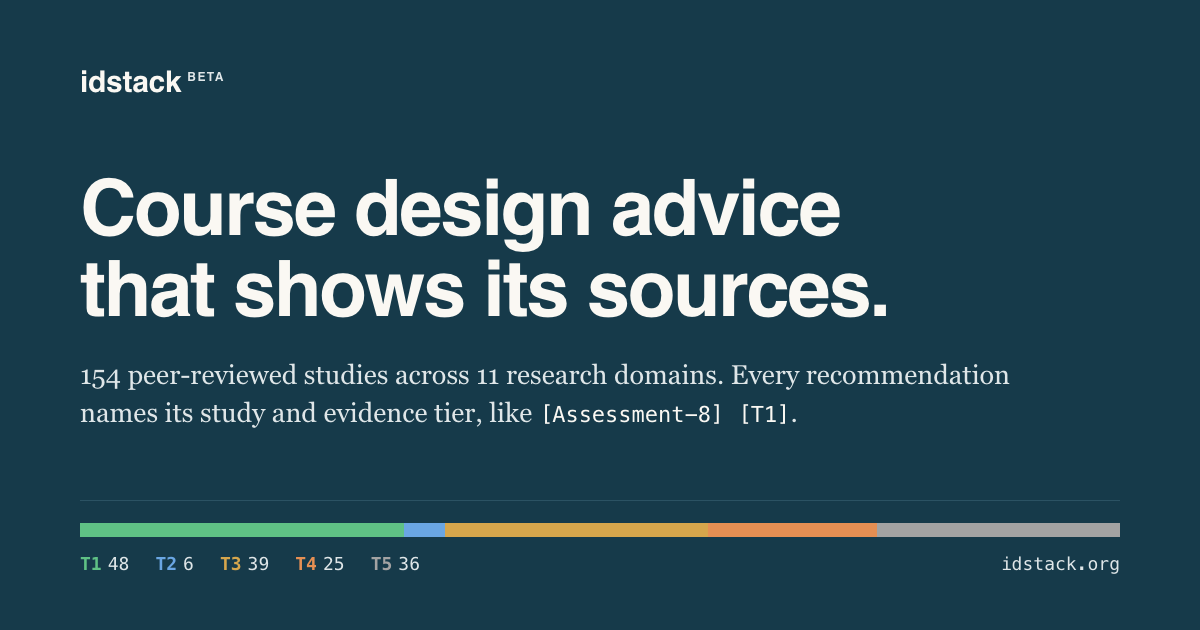
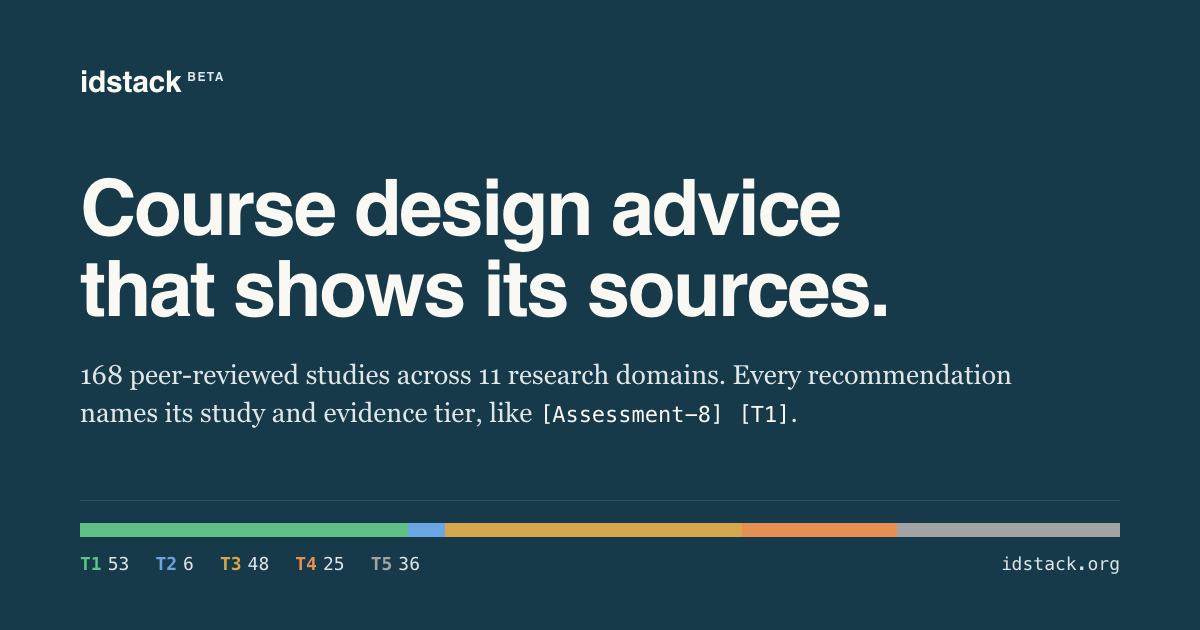
feat: 14 new references from a Consensus search of all 11 domains
The evidence base goes from 154 to 168 studies. Five meta-analyses (T1)
and nine systematic or scoping reviews (T3), all from 2025 and 2026.
The landing page rows, the OG card, the README table and DESIGN.md
follow the new counts. Mutation case 18b gets the new anchor.

diff --git a/docs/index.html b/docs/index.html
@@ -4,7 +4,7 @@
   <meta charset="UTF-8">
   <meta name="viewport" content="width=device-width, initial-scale=1.0, viewport-fit=cover">
   <title>idstack: Evidence-based instructional design with peer-reviewed citations</title>
-  <meta name="description" content="Open-source skills for evidence-based instructional design. 154 peer-reviewed studies across 11 research domains. Every recommendation cites its evidence tier, T1 (meta-analyses, RCTs) through T5 (expert opinion). Runs in Claude Code, Cowork and Chrome.">
+  <meta name="description" content="Open-source skills for evidence-based instructional design. 168 peer-reviewed studies across 11 research domains. Every recommendation cites its evidence tier, T1 (meta-analyses, RCTs) through T5 (expert opinion). Runs in Claude Code, Cowork and Chrome.">
   <meta name="keywords" content="instructional design, evidence-based, course design, Quality Matters, Bloom's taxonomy, cognitive load, learning objectives, WCAG, UDL, open source, Claude Code">
   <meta name="robots" content="index, follow">
   <link rel="canonical" href="https://idstack.org/">
@@ -20,7 +20,7 @@
 
   <!-- Open Graph -->
   <meta property="og:title" content="idstack: Evidence-based instructional design with peer-reviewed citations">
-  <meta property="og:description" content="154 peer-reviewed studies across 11 research domains. Every recommendation cites its evidence tier. Open source, MIT-licensed. Runs in Claude Code, Cowork and Chrome.">
+  <meta property="og:description" content="168 peer-reviewed studies across 11 research domains. Every recommendation cites its evidence tier. Open source, MIT-licensed. Runs in Claude Code, Cowork and Chrome.">
   <meta property="og:type" content="website">
   <meta property="og:url" content="https://idstack.org/">
   <meta property="og:site_name" content="idstack">
@@ -33,7 +33,7 @@
   <!-- Twitter Card -->
   <meta name="twitter:card" content="summary_large_image">
   <meta name="twitter:title" content="idstack: Evidence-based instructional design with peer-reviewed citations">
-  <meta name="twitter:description" content="154 peer-reviewed studies, 11 research domains, evidence tiers on every recommendation. Open source. Runs in Claude Code, Cowork and Chrome.">
+  <meta name="twitter:description" content="168 peer-reviewed studies, 11 research domains, evidence tiers on every recommendation. Open source. Runs in Claude Code, Cowork and Chrome.">
   <meta name="twitter:image" content="https://idstack.org/og-image.png">
   <meta name="twitter:image:alt" content="idstack: Evidence-based instructional design with peer-reviewed citations.">
 
@@ -1223,7 +1223,7 @@
     <section class="hero" aria-labelledby="hero-title">
       <div class="hero-text">
         <h1 id="hero-title">Course design advice that shows its sources.</h1>
-        <p class="lede">idstack reviews your course in Claude Code, Cowork or Chrome. Each recommendation names the study behind it and how strong that evidence is, from <span class="tier tier-1">T1</span> meta-analyses and RCTs to <span class="tier tier-5">T5</span> expert opinion. 154 peer-reviewed studies across 11 research domains. The skills follow the framework that you already use: ADDIE, backward design or SAM.</p>
+        <p class="lede">idstack reviews your course in Claude Code, Cowork or Chrome. Each recommendation names the study behind it and how strong that evidence is, from <span class="tier tier-1">T1</span> meta-analyses and RCTs to <span class="tier tier-5">T5</span> expert opinion. 168 peer-reviewed studies across 11 research domains. The skills follow the framework that you already use: ADDIE, backward design or SAM.</p>
 
         <div class="cta-row">
           <div class="cta-actions">
@@ -1245,7 +1245,7 @@
             <code id="install-cmd">git clone https://github.com/savvides/idstack.git &amp;&amp; cd idstack &amp;&amp; ./setup</code>
             <button class="copy-btn" type="button" data-copy-target="install-cmd" aria-label="Copy install command">Copy</button>
           </div>
-          <a class="cta-secondary" href="#evidence">→&nbsp; See the 154 studies</a>
+          <a class="cta-secondary" href="#evidence">→&nbsp; See the 168 studies</a>
           <a class="cta-secondary" href="#pipeline">→&nbsp; Find your ADDIE or backward design phase</a>
         </div>
 
@@ -1425,7 +1425,7 @@
     <section class="section" id="evidence" aria-labelledby="evidence-title">
       <header class="section-header">
         <h2 id="evidence-title">Every recommendation cites its source.</h2>
-        <p class="lede">The 11 research domains below are ranked by study count. Each bar shows the tier mix of that domain's references. You can see where idstack rests on trials and where it rests on reviews or expert opinion. When findings conflict, the stronger tier wins. All 154 references are in <a href="https://github.com/savvides/idstack/blob/main/evidence/references.md" rel="noopener"><code>evidence/references.md</code></a>. Every source is public, and you can check every citation.</p>
+        <p class="lede">The 11 research domains below are ranked by study count. Each bar shows the tier mix of that domain's references. You can see where idstack rests on trials and where it rests on reviews or expert opinion. When findings conflict, the stronger tier wins. All 168 references are in <a href="https://github.com/savvides/idstack/blob/main/evidence/references.md" rel="noopener"><code>evidence/references.md</code></a>. Every source is public, and you can check every citation.</p>
       </header>
 
       <div class="evidence-legend" role="note" aria-label="Evidence tier legend">
@@ -1438,69 +1438,69 @@
 
       <ol class="evidence-index" aria-label="Research domains, ranked by study count">
         <li class="evidence-row">
-          <h3 class="evidence-row-title">Cognitive Load Theory &amp; Instructional Sequencing</h3>
-          <span class="evidence-row-count">19 studies</span>
-          <span class="tier-mix" role="img" aria-label="Tier mix: 6 at T1, 2 at T2, 1 at T4, 10 at T5" data-tiers="6,2,0,1,10" style="width:100%"><span class="t1" style="width:31.58%"></span><span class="t2" style="width:10.53%"></span><span class="t4" style="width:5.26%"></span><span class="t5" style="width:52.63%"></span></span>
-          <p class="evidence-row-body">Working memory holds only a few new ideas at one time. Cognitive load research shows when a visual cue helps, and when a repeated explanation overloads the learner. <span class="evidence-row-tiers">T1–T5</span></p>
-        </li>
-        <li class="evidence-row">
           <h3 class="evidence-row-title">Formative Assessment &amp; Feedback</h3>
-          <span class="evidence-row-count">19 studies</span>
-          <span class="tier-mix" role="img" aria-label="Tier mix: 14 at T1, 1 at T2, 1 at T3, 1 at T4, 2 at T5" data-tiers="14,1,1,1,2" style="width:100%"><span class="t1" style="width:73.68%"></span><span class="t2" style="width:5.26%"></span><span class="t3" style="width:5.26%"></span><span class="t4" style="width:5.26%"></span><span class="t5" style="width:10.53%"></span></span>
+          <span class="evidence-row-count">21 studies</span>
+          <span class="tier-mix" role="img" aria-label="Tier mix: 15 at T1, 1 at T2, 2 at T3, 1 at T4, 2 at T5" data-tiers="15,1,2,1,2" style="width:100%"><span class="t1" style="width:71.43%"></span><span class="t2" style="width:4.76%"></span><span class="t3" style="width:9.52%"></span><span class="t4" style="width:4.76%"></span><span class="t5" style="width:9.52%"></span></span>
           <p class="evidence-row-body">Feedback that explains the error and the next step improves retention. Feedback that only marks an answer right or wrong does less. Nicol's principles give criteria for rubrics, self-assessment and peer review. <span class="evidence-row-tiers">T1–T5</span></p>
         </li>
         <li class="evidence-row">
+          <h3 class="evidence-row-title">Cognitive Load Theory &amp; Instructional Sequencing</h3>
+          <span class="evidence-row-count">19 studies</span>
+          <span class="tier-mix" role="img" aria-label="Tier mix: 6 at T1, 2 at T2, 1 at T4, 10 at T5" data-tiers="6,2,0,1,10" style="width:90.48%"><span class="t1" style="width:31.58%"></span><span class="t2" style="width:10.53%"></span><span class="t4" style="width:5.26%"></span><span class="t5" style="width:52.63%"></span></span>
+          <p class="evidence-row-body">Working memory holds only a few new ideas at one time. Cognitive load research shows when a visual cue helps, and when a repeated explanation overloads the learner. <span class="evidence-row-tiers">T1–T5</span></p>
+        </li>
+        <li class="evidence-row">
           <h3 class="evidence-row-title">Instructional Design Models &amp; Frameworks</h3>
-          <span class="evidence-row-count">15 studies</span>
-          <span class="tier-mix" role="img" aria-label="Tier mix: 3 at T1, 11 at T3, 1 at T5" data-tiers="3,0,11,0,1" style="width:78.95%"><span class="t1" style="width:20%"></span><span class="t3" style="width:73.33%"></span><span class="t5" style="width:6.67%"></span></span>
+          <span class="evidence-row-count">17 studies</span>
+          <span class="tier-mix" role="img" aria-label="Tier mix: 3 at T1, 13 at T3, 1 at T5" data-tiers="3,0,13,0,1" style="width:80.95%"><span class="t1" style="width:17.65%"></span><span class="t3" style="width:76.47%"></span><span class="t5" style="width:5.88%"></span></span>
           <p class="evidence-row-body">ADDIE, ARCS, ASSURE and UDL fit different contexts. A 2025 review <span class="cite-pill">[ID-7] [T3]</span> compares the strengths and limits of ADDIE, ARCS, and ASSURE. It proposes a framework that combines them. <span class="evidence-row-tiers">T1–T5</span></p>
         </li>
         <li class="evidence-row">
           <h3 class="evidence-row-title">Evaluation Models</h3>
-          <span class="evidence-row-count">15 studies</span>
-          <span class="tier-mix" role="img" aria-label="Tier mix: 4 at T1, 4 at T3, 1 at T4, 6 at T5" data-tiers="4,0,4,1,6" style="width:78.95%"><span class="t1" style="width:26.67%"></span><span class="t3" style="width:26.67%"></span><span class="t4" style="width:6.67%"></span><span class="t5" style="width:40%"></span></span>
+          <span class="evidence-row-count">16 studies</span>
+          <span class="tier-mix" role="img" aria-label="Tier mix: 4 at T1, 5 at T3, 1 at T4, 6 at T5" data-tiers="4,0,5,1,6" style="width:76.19%"><span class="t1" style="width:25%"></span><span class="t3" style="width:31.25%"></span><span class="t4" style="width:6.25%"></span><span class="t5" style="width:37.5%"></span></span>
           <p class="evidence-row-body">Plan the evaluation while you design the course, not after it. Kirkpatrick's four levels measure reaction, learning, behavior and results. Satisfaction alone does not show learning. <span class="evidence-row-tiers">T1–T5</span></p>
         </li>
         <li class="evidence-row">
           <h3 class="evidence-row-title">Multimedia Learning Principles</h3>
-          <span class="evidence-row-count">14 studies</span>
-          <span class="tier-mix" role="img" aria-label="Tier mix: 7 at T1, 2 at T2, 2 at T3, 1 at T4, 2 at T5" data-tiers="7,2,2,1,2" style="width:73.68%"><span class="t1" style="width:50%"></span><span class="t2" style="width:14.29%"></span><span class="t3" style="width:14.29%"></span><span class="t4" style="width:7.14%"></span><span class="t5" style="width:14.29%"></span></span>
+          <span class="evidence-row-count">16 studies</span>
+          <span class="tier-mix" role="img" aria-label="Tier mix: 9 at T1, 2 at T2, 2 at T3, 1 at T4, 2 at T5" data-tiers="9,2,2,1,2" style="width:76.19%"><span class="t1" style="width:56.25%"></span><span class="t2" style="width:12.5%"></span><span class="t3" style="width:12.5%"></span><span class="t4" style="width:6.25%"></span><span class="t5" style="width:12.5%"></span></span>
           <p class="evidence-row-body">Mayer's principles (coherence, signaling, segmenting, modality, redundancy) tell how to combine words and pictures. Text or decoration that does not teach adds load and reduces learning. <span class="evidence-row-tiers">T1–T5</span></p>
         </li>
         <li class="evidence-row">
           <h3 class="evidence-row-title">Online Course Quality Frameworks</h3>
-          <span class="evidence-row-count">14 studies</span>
-          <span class="tier-mix" role="img" aria-label="Tier mix: 3 at T1, 2 at T3, 8 at T4, 1 at T5" data-tiers="3,0,2,8,1" style="width:73.68%"><span class="t1" style="width:21.43%"></span><span class="t3" style="width:14.29%"></span><span class="t4" style="width:57.14%"></span><span class="t5" style="width:7.14%"></span></span>
+          <span class="evidence-row-count">16 studies</span>
+          <span class="tier-mix" role="img" aria-label="Tier mix: 4 at T1, 3 at T3, 8 at T4, 1 at T5" data-tiers="4,0,3,8,1" style="width:76.19%"><span class="t1" style="width:25%"></span><span class="t3" style="width:18.75%"></span><span class="t4" style="width:50%"></span><span class="t5" style="width:6.25%"></span></span>
           <p class="evidence-row-body">Quality Matters (QM) standards and the Community of Inquiry (CoI) model are the most studied frameworks for online course quality. CoI measures teaching, social and cognitive presence. idstack audits against both. <span class="evidence-row-tiers">T1–T5</span></p>
+        </li>
+        <li class="evidence-row">
+          <h3 class="evidence-row-title">Accessibility &amp; Universal Design for Learning</h3>
+          <span class="evidence-row-count">15 studies</span>
+          <span class="tier-mix" role="img" aria-label="Tier mix: 2 at T1, 8 at T3, 1 at T4, 4 at T5" data-tiers="2,0,8,1,4" style="width:71.43%"><span class="t1" style="width:13.33%"></span><span class="t3" style="width:53.33%"></span><span class="t4" style="width:6.67%"></span><span class="t5" style="width:26.67%"></span></span>
+          <p class="evidence-row-body">WCAG 2.1 AA is the legal baseline for digital accessibility. Universal Design for Learning (UDL 3.0) plans three pathways (engagement, representation, and action) from the start, so that more learners can succeed. <span class="evidence-row-tiers">T1–T5</span></p>
         </li>
         <li class="evidence-row">
           <h3 class="evidence-row-title">Constructive Alignment &amp; Learning Objectives</h3>
           <span class="evidence-row-count">13 studies</span>
-          <span class="tier-mix" role="img" aria-label="Tier mix: 2 at T1, 1 at T3, 6 at T4, 4 at T5" data-tiers="2,0,1,6,4" style="width:68.42%"><span class="t1" style="width:15.38%"></span><span class="t3" style="width:7.69%"></span><span class="t4" style="width:46.15%"></span><span class="t5" style="width:30.77%"></span></span>
+          <span class="tier-mix" role="img" aria-label="Tier mix: 2 at T1, 1 at T3, 6 at T4, 4 at T5" data-tiers="2,0,1,6,4" style="width:61.9%"><span class="t1" style="width:15.38%"></span><span class="t3" style="width:7.69%"></span><span class="t4" style="width:46.15%"></span><span class="t5" style="width:30.77%"></span></span>
           <p class="evidence-row-body">When objectives, activities and assessments do not agree, students learn less. The revised Bloom's taxonomy classifies each objective, so that the assessment can measure the same level. <span class="evidence-row-tiers">T1–T5</span></p>
         </li>
         <li class="evidence-row">
-          <h3 class="evidence-row-title">Accessibility &amp; Universal Design for Learning</h3>
-          <span class="evidence-row-count">13 studies</span>
-          <span class="tier-mix" role="img" aria-label="Tier mix: 2 at T1, 6 at T3, 1 at T4, 4 at T5" data-tiers="2,0,6,1,4" style="width:68.42%"><span class="t1" style="width:15.38%"></span><span class="t3" style="width:46.15%"></span><span class="t4" style="width:7.69%"></span><span class="t5" style="width:30.77%"></span></span>
-          <p class="evidence-row-body">WCAG 2.1 AA is the legal baseline for digital accessibility. Universal Design for Learning (UDL 3.0) plans three pathways (engagement, representation, and action) from the start, so that more learners can succeed. <span class="evidence-row-tiers">T1–T5</span></p>
-        </li>
-        <li class="evidence-row">
           <h3 class="evidence-row-title">Learner Analysis &amp; Differentiation</h3>
-          <span class="evidence-row-count">11 studies</span>
-          <span class="tier-mix" role="img" aria-label="Tier mix: 5 at T1, 4 at T4, 2 at T5" data-tiers="5,0,0,4,2" style="width:57.89%"><span class="t1" style="width:45.45%"></span><span class="t4" style="width:36.36%"></span><span class="t5" style="width:18.18%"></span></span>
+          <span class="evidence-row-count">12 studies</span>
+          <span class="tier-mix" role="img" aria-label="Tier mix: 6 at T1, 4 at T4, 2 at T5" data-tiers="6,0,0,4,2" style="width:57.14%"><span class="t1" style="width:50%"></span><span class="t4" style="width:33.33%"></span><span class="t5" style="width:16.67%"></span></span>
           <p class="evidence-row-body">Prior knowledge is the strongest predictor of what a learner gains from instruction. Novices need support that slows experienced learners. This is the expertise-reversal effect. <span class="evidence-row-tiers">T1–T5</span></p>
         </li>
         <li class="evidence-row">
           <h3 class="evidence-row-title">Needs Analysis</h3>
-          <span class="evidence-row-count">11 studies</span>
-          <span class="tier-mix" role="img" aria-label="Tier mix: 2 at T1, 9 at T3" data-tiers="2,0,9,0,0" style="width:57.89%"><span class="t1" style="width:18.18%"></span><span class="t3" style="width:81.82%"></span></span>
+          <span class="evidence-row-count">12 studies</span>
+          <span class="tier-mix" role="img" aria-label="Tier mix: 2 at T1, 10 at T3" data-tiers="2,0,10,0,0" style="width:57.14%"><span class="t1" style="width:16.67%"></span><span class="t3" style="width:83.33%"></span></span>
           <p class="evidence-row-body">A needs analysis examines three levels (organization, task and learner) before anyone writes content. It keeps the course on the skill gap, and it shows when training is not the answer. <span class="evidence-row-tiers">T1–T3</span></p>
         </li>
         <li class="evidence-row">
           <h3 class="evidence-row-title">Rapid Prototyping &amp; Design-Based Research</h3>
-          <span class="evidence-row-count">10 studies</span>
-          <span class="tier-mix" role="img" aria-label="Tier mix: 1 at T2, 3 at T3, 2 at T4, 4 at T5" data-tiers="0,1,3,2,4" style="width:52.63%"><span class="t2" style="width:10%"></span><span class="t3" style="width:30%"></span><span class="t4" style="width:20%"></span><span class="t5" style="width:40%"></span></span>
+          <span class="evidence-row-count">11 studies</span>
+          <span class="tier-mix" role="img" aria-label="Tier mix: 1 at T2, 4 at T3, 2 at T4, 4 at T5" data-tiers="0,1,4,2,4" style="width:52.38%"><span class="t2" style="width:9.09%"></span><span class="t3" style="width:36.36%"></span><span class="t4" style="width:18.18%"></span><span class="t5" style="width:36.36%"></span></span>
           <p class="evidence-row-body">A pilot with real learners finds usability and content problems early. Design-based research gives the revisions a method. <span class="evidence-row-tiers">T2–T5</span></p>
         </li>
       </ol>

diff --git a/docs/og-template.html b/docs/og-template.html
@@ -80,7 +80,7 @@
     }
 
     .rail { border-top: 1px solid var(--hero-rule); padding-top: 22px; }
-    /* 154 studies by tier (T1 48, T2 6, T3 39, T4 25, T5 36), from evidence/references.md. */
+    /* 168 studies by tier (T1 53, T2 6, T3 48, T4 25, T5 36), from evidence/references.md. */
     .mix { display: flex; height: 14px; margin-bottom: 16px; }
     .mix span { display: block; height: 100%; }
     .rail-row {
@@ -101,22 +101,22 @@
 
     <div>
       <h1 class="hero-title">Course design advice that shows its sources.</h1>
-      <p class="lede">154 peer-reviewed studies across 11 research domains. Every recommendation names its study and evidence tier, like <span class="cite">[Assessment-8] [T1]</span>.</p>
+      <p class="lede">168 peer-reviewed studies across 11 research domains. Every recommendation names its study and evidence tier, like <span class="cite">[Assessment-8] [T1]</span>.</p>
     </div>
 
     <div class="rail">
       <div class="mix" aria-hidden="true">
-        <span style="width:31.17%;background:var(--tier-1)"></span>
-        <span style="width:3.9%;background:var(--tier-2)"></span>
-        <span style="width:25.32%;background:var(--tier-3)"></span>
-        <span style="width:16.23%;background:var(--tier-4)"></span>
-        <span style="width:23.38%;background:var(--tier-5)"></span>
+        <span style="width:31.55%;background:var(--tier-1)"></span>
+        <span style="width:3.57%;background:var(--tier-2)"></span>
+        <span style="width:28.57%;background:var(--tier-3)"></span>
+        <span style="width:14.88%;background:var(--tier-4)"></span>
+        <span style="width:21.43%;background:var(--tier-5)"></span>
       </div>
       <div class="rail-row">
         <span class="legend">
-          <span><b style="color:var(--tier-1)">T1</b>48</span>
+          <span><b style="color:var(--tier-1)">T1</b>53</span>
           <span><b style="color:var(--tier-2)">T2</b>6</span>
-          <span><b style="color:var(--tier-3)">T3</b>39</span>
+          <span><b style="color:var(--tier-3)">T3</b>48</span>
           <span><b style="color:var(--tier-4)">T4</b>25</span>
           <span><b style="color:var(--tier-5)">T5</b>36</span>
         </span>

diff --git a/evidence/references.md b/evidence/references.md
@@ -32,6 +32,8 @@ Each citation includes its domain shorthand and evidence tier for cross-referenc
 - [ID-114] Costa, J.M. et al. (2021). Four-component instructional design (4C/ID) model: a meta-analysis on use and effect. *Learning Environments Research*. T1
 - [ID-115] Bai, S. et al. (2020). Does gamification improve student learning outcome? Evidence from a meta-analysis and synthesis of qualitative data in educational contexts. *Educational Research Review*. T1
 - [ID-116] Alé, J. et al. (2025). Emerging Technology-Based Motivational Strategies: A Systematic Review with Meta-Analysis. *Education Sciences*. T1
+- [ID-117] Neck, M. et al. (2025). Implementing the four-component instructional design model in professional development programs: a systematic review with a focus on teachers. *Frontiers in Education*. T3
+- [ID-118] Qi, G. et al. (2026). The Four-Component Instructional Design (4C/ID) Model in Higher Education: A Systematic Literature Review. *Journal of University Teaching and Learning Practice*. T3
 
 ## Domain 2: Constructive Alignment & Learning Objectives
 
@@ -62,6 +64,7 @@ Each citation includes its domain shorthand and evidence tier for cross-referenc
 - [Needs-14] León, S.P. et al. (2023). How Accurate Are Our Students? A Meta-analytic Systematic Review on Self-assessment Scoring Accuracy. *Educational Psychology Review*. T3
 - [Needs-15] Forsetlund, L. et al. (2021). Continuing education meetings and workshops: effects on professional practice and healthcare outcomes. *Cochrane Database of Systematic Reviews*. T1
 - [Needs-16] Knight, C. et al. (2021). How work redesign interventions affect performance: An evidence-based model from a systematic review. *Human Relations*. T3
+- [Needs-17] Nunes, D.F. et al. (2025). Training Needs Analysis in Management: A Critical Look at the Field. *Management and Labour Studies*. T3
 
 ## Domain 4: Cognitive Load Theory & Instructional Sequencing
 
@@ -106,6 +109,8 @@ Each citation includes its domain shorthand and evidence tier for cross-referenc
 - [Assessment-25] Yang, C. et al. (2021). Testing (Quizzing) Boosts Classroom Learning: A Systematic and Meta-Analytic Review. *Psychological Bulletin*. T1
 - [Assessment-26] Adesope, O. et al. (2017). Rethinking the Use of Tests: A Meta-Analysis of Practice Testing. *Review of Educational Research*. T1
 - [Assessment-27] Pan, S.C. & Rickard, T.C. (2018). Transfer of Test-Enhanced Learning: Meta-Analytic Review and Synthesis. *Psychological Bulletin*. T1
+- [Assessment-28] Maskos, K. et al. (2025). Formative Assessment in Mathematics Education: A Systematic Review. *ZDM*. T3
+- [Assessment-29] Gençaslan, D. et al. (2026). Formative Assessment in K-12 Education in Türkiye: A Meta-Analysis of Cognitive and Affective Learning Outcomes. *SAGE Open*. T1
 
 ## Domain 6: Multimedia Learning Principles
 
@@ -123,6 +128,8 @@ Each citation includes its domain shorthand and evidence tier for cross-referenc
 - [Multimedia-22] Sundararajan, N. & Adesope, O. (2020). Keep it Coherent: A Meta-Analysis of the Seductive Details Effect. *Educational Psychology Review*. T1
 - [Multimedia-23] Ploetzner, R. (2022). The effectiveness of enhanced interaction features in educational videos: a meta-analysis. *Interactive Learning Environments*. T1
 - [Multimedia-24] Noetel, M. et al. (2021). Video Improves Learning in Higher Education: A Systematic Review. *Review of Educational Research*. T1
+- [Multimedia-25] Ma, Y. et al. (2026). Effects of cueing interventions on online learning outcomes: a meta-analytic review of 40 studies. *Frontiers in Psychology*. T1
+- [Multimedia-26] Huang, G. et al. (2025). Facilitating or hindering learning - a meta-analysis of acceleration on video learning. *Frontiers in Psychology*. T1
 
 ## Domain 7: Learner Analysis & Differentiation
 
@@ -137,6 +144,7 @@ Each citation includes its domain shorthand and evidence tier for cross-referenc
 - [Learner-19] Wang, X. et al. (2024). The Efficacy of Artificial Intelligence-Enabled Adaptive Learning Systems From 2010 to 2022 on Learner Outcomes: A Meta-Analysis. *Journal of Educational Computing Research*. T1
 - [Learner-20] Chernikova, O. et al. (2024). Personalization through Adaptivity or Adaptability? A Meta-analysis on Simulation-based Learning in Higher Education. *Educational Research Review*. T1
 - [Learner-21] Simonsmeier, B.A. et al. (2021). Domain-specific prior knowledge and learning: A meta-analysis. *Educational Psychologist*. T1
+- [Learner-22] Wang, J. et al. (2025). A Meta-Analysis of Moderators of the Effects of Technology-Enhanced Adaptive Learning on Primary and Secondary Students' Learning Outcomes. *Journal of Computer Assisted Learning*. T1
 
 ## Domain 8: Evaluation Models
 
@@ -155,6 +163,7 @@ Each citation includes its domain shorthand and evidence tier for cross-referenc
 - [Evaluation-23] Alliger, G.M. et al. (1997). A Meta-Analysis of the Relations Among Training Criteria. *Personnel Psychology*. T1
 - [Evaluation-24] Blume, B.D. et al. (2010). Transfer of Training: A Meta-Analytic Review. *Journal of Management*. T1
 - [Evaluation-25] Arthur, W. et al. (2003). Effectiveness of Training in Organizations: A Meta-Analysis of Design and Evaluation Features. *Journal of Applied Psychology*. T1
+- [Evaluation-26] Gallant, N.L. et al. (2026). Applications of the Kirkpatrick Model in Post-secondary Health Sciences Education: A Scoping Review. *International Journal of Health Policy and Management*. T3
 
 ## Domain 9: Rapid Prototyping & Design-Based Research
 
@@ -168,6 +177,7 @@ Each citation includes its domain shorthand and evidence tier for cross-referenc
 - [Prototype-16] Toker, S. (2021). The progress of 21st-century skills throughout instructional design projects: a quasi-experimental comparison of rapid prototyping and Dick and Carey models. *Education and Information Technologies*. T2
 - [Prototype-17] Anderson, T. & Shattuck, J. (2012). Design-Based Research: A Decade of Progress? *Educational Researcher*. T3
 - [Prototype-18] Vlachogianni, P. & Tselios, N. (2021). Perceived usability evaluation of educational technology using the System Usability Scale (SUS): A systematic review. *Journal of Research on Technology in Education*. T3
+- [Prototype-19] Kager, K. et al. (2026). Potentials and pitfalls of design-based research on lesson study: A systematic review. *Teaching and Teacher Education*. T3
 
 ## Domain 10: Online Course Quality Frameworks
 
@@ -185,6 +195,8 @@ Each citation includes its domain shorthand and evidence tier for cross-referenc
 - [Online-19] Martin, F. et al. (2022). Examining research on the impact of distance and online learning: A second-order meta-analysis study. *Educational Research Review*. T1
 - [Online-20] Sailer, M. et al. (2024). Learning activities in technology-enhanced learning: A systematic review of meta-analyses and second-order meta-analysis in higher education. *Learning and Individual Differences*. T1
 - [Online-21] Lee, J.E. et al. (2020). The Validity and Instructional Value of a Rubric for Evaluating Online Course Quality: An Empirical Study. *Online Learning*. T4
+- [Online-22] Yang, D. et al. (2025). Relationships between cognitive presence and students' learning outcomes in online higher education: a meta-analysis. *Distance Education*. T1
+- [Online-23] Martin, F. et al. (2025). Mapping the Research Landscape of Online Learning: Evidence Gap Map Analysis of Meta-Analytic Studies. *American Journal of Distance Education*. T3
 
 ## Domain 11: Accessibility & Universal Design for Learning
 
@@ -201,6 +213,8 @@ Each citation includes its domain shorthand and evidence tier for cross-referenc
 - [Access-11] Zhang, L. et al. (2024). Unraveling Challenges with the Implementation of Universal Design for Learning: A Systematic Literature Review. *Educational Psychology Review*. T3
 - [Access-12] Yang, M. et al. (2024). Universal design in online education: A systematic review. *Distance Education*. T3
 - [Access-13] Boysen, G. (2024). A critical analysis of the research evidence behind CAST's universal design for learning guidelines. *Policy Futures in Education*. T5
+- [Access-14] Saenen, L. et al. (2026). From principles to practice: Universal design in higher education—A systematic review. *Review of Education*. T3
+- [Access-15] Ren, N. et al. (2026). Integrating Universal Design for Learning in higher education: a scoping review of empirical studies. *Higher Education Research & Development*. T3
 
 ---
 

diff --git a/README.md b/README.md
@@ -488,12 +488,12 @@ idstack encodes findings from a literature synthesis spanning 11 domains of inst
 | Domain | Studies (T1 studies) | Tier range | Key Finding |
 |--------|---------------------|------------|-------------|
 | Cognitive Load Theory | 19 (6) | T1–T5 | Manage working memory load through sequencing, segmenting, and integration |
-| Multimedia Learning | 14 (7) | T1–T5 | Spatial contiguity, signaling, and coherence reliably improve learning |
-| Formative Assessment | 19 (14) | T1–T5 | Feedback that explains what to do next outperforms correctness-only feedback |
+| Multimedia Learning | 16 (9) | T1–T5 | Spatial contiguity, signaling, and coherence reliably improve learning |
+| Formative Assessment | 21 (15) | T1–T5 | Feedback that explains what to do next outperforms correctness-only feedback |
 | Constructive Alignment | 13 (2) | T1–T5 | Objectives, activities, and assessments must form a coherent chain |
-| Online Course Quality | 14 (3) | T1–T5 | QM standards + CoI presence predicts outcomes beyond compliance |
-| Needs Analysis | 11 (2) | T1–T3 | Multi-level analysis is necessary but rarely done |
-| Accessibility & UDL | 13 (2) | T1–T5 | WCAG 2.1 AA is the legal baseline; UDL 3.0 extends to design for learner variation |
+| Online Course Quality | 16 (4) | T1–T5 | QM standards + CoI presence predicts outcomes beyond compliance |
+| Needs Analysis | 12 (2) | T1–T3 | Multi-level analysis is necessary but rarely done |
+| Accessibility & UDL | 15 (2) | T1–T5 | WCAG 2.1 AA is the legal baseline; UDL 3.0 extends to design for learner variation |
 
 The counts come from `evidence/references.md`. Most of the Constructive Alignment references are T4 and T5, and most of the Needs Analysis references are T3.
 

diff --git a/DESIGN.md b/DESIGN.md
@@ -4,7 +4,7 @@ This file is the source of truth for idstack's visual system. Any visual or UI d
 
 ## Product context
 
-- **What this is:** Open-source set of skills for evidence-based instructional design. Runs in Claude Code and Cowork. 16 skills, 154 peer-reviewed studies across 11 research domains, every recommendation tagged with its evidence tier T1–T5.
+- **What this is:** Open-source set of skills for evidence-based instructional design. Runs in Claude Code and Cowork. 16 skills, 168 peer-reviewed studies across 11 research domains, every recommendation tagged with its evidence tier T1–T5.
 - **Who it's for:** Instructional designers (university, K-12, corporate L&D), faculty doing their own course design, course-design teams. **Downstream stakeholders:** deans, faculty senates, accreditation reviewers — they read the Markdown reports the designer hands them.
 - **Space:** Edtech / instructional design. Adjacent inspiration: open-access academic publishing (eLife), evidence-based-medicine reference (UpToDate, Cochrane), modern dev tools (Linear, Cursor).
 - **Project type:** Hybrid — five surfaces share one system:

diff --git a/CHANGELOG.md b/CHANGELOG.md
@@ -2,6 +2,10 @@
 
 ## Unreleased
 
+### Added — evidence base
+
+- **Fourteen new references, all peer-reviewed, from 2025 and 2026.** A Consensus search of each of the 11 domains found them. Five are meta-analyses: formative assessment [Assessment-29], cues in online learning [Multimedia-25], video playback speed [Multimedia-26], adaptive learning [Learner-22] and cognitive presence [Online-22]. Nine are systematic or scoping reviews: [ID-117], [ID-118], [Needs-17], [Assessment-28], [Evaluation-26], [Prototype-19], [Online-23], [Access-14] and [Access-15]. The evidence base now has 168 studies. No skill cites the new references yet.
+
 ### Added — framework alignment
 
 - **A framework guide shows where each skill is in ADDIE, backward design and SAM.** `docs/frameworks.md` has a one-page map, a diagram for each framework, the check that tells you when to leave a phase, and a table to help you select a framework.
